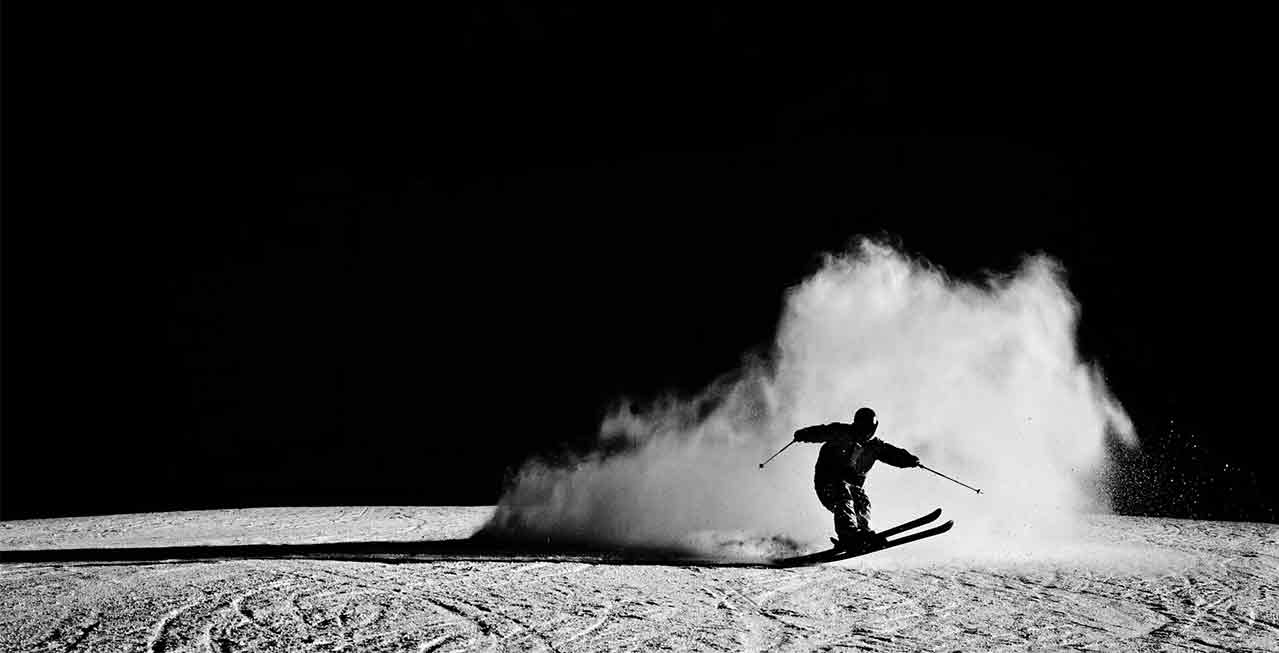
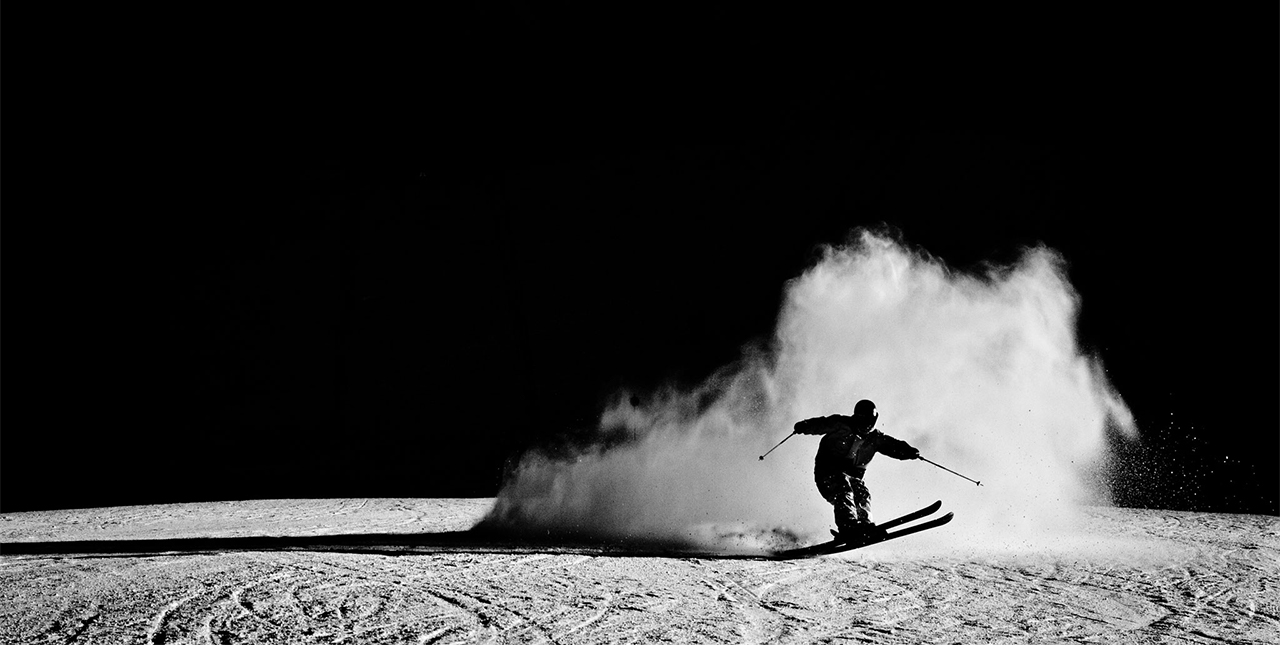
Обновил картинку на промо(качество 100%), попробовал зафлоатить первый блок

diff --git a/css/style.css b/css/style.css
@@ -56,60 +56,10 @@ body {
   font-weight: 400;
   color: #000;
   background-color: #fff;
-  /* width: 1280px;
-  height: 5925px; */
 }
 
-.container {
-  width: 1280px;
-}
-
-h1 {
-  font-size: 50px;
-  line-height: 50px;
-  font-weight: 900;
-  color: #fff;
-}
-
-h1 span {
-  font-size: 38px;
-  line-height: 40px;
-  font-weight: 600;
-  color: #fff;
-}
-
-h2 {
-  font-size: 40px;
-  line-height: 35px;
-  font-weight: 600;
-}
-
-h3 {
-  font-size: 20px;
-  line-height: 70px;
-  font-weight: 500;
-}
-
-.advantage h3 {
-  font-size: 20px;
-  line-height: 26px;
-  font-weight: 500;
-}
-
-.offer h3 {
-  font-size: 22px;
-  line-height: 35px;
-  font-weight: 500;
-}
-
-.offer p {
-  font-size: 20px;
-  line-height: 23px;
-  font-weight: 400;
-}
-
-.offer span {
-  color: #83eba5;
+a {
+  text-decoration: none;
 }
 
 p {
@@ -119,52 +69,92 @@ p {
   font-weight: 400;
 }
 
-a {
-  text-decoration: none;
+h2 {
+  font-size: 40px;
+  line-height: 35px;
+  font-weight: 600;
+  text-align: center;
+}
+
+h3 {
+  font-size: 20px;
+  line-height: 70px;
+  font-weight: 500;
+}
+
+.container {
+  width: 1160px;
+  margin: 0 auto;
+}
+
+.promo {
+  padding-top: 100px;
+  background: url(../img/bg_indexpromo.jpg) center no-repeat;
+  height: 550px;
+}
+
+.promo__title {
+  padding: 0;
+  margin: 0;
+  font-size: 50px;
+  line-height: 50px;
+  font-weight: 700;
+  color: #fff;
+}
+
+.promo__title-span {
+  display: block;
+  margin-top: 30px;
+  font-size: 38px;
+  line-height: 40px;
+  font-weight: 600;
+  color: #fff;
+}
+
+header {
+padding: 35px 0;
+}
+
+.logo {
+  display: inline-block;
+  padding: 0;
+  margin: 0;
+  width: 160px;
+  float: left;
+  vertical-align: middle;
 }
 
 .main-menu {
-  font-size: 15px;
-  line-height: 70px;
-  font-weight: 500;
-  text-transform: uppercase;
+  float: left;
+  text-align: center;
 }
 
-footer .main-menu {
-  opacity: .8;
+.main-menu__list {
+  display: block;
+  margin: 0;
+  padding: 0;
 }
 
-.phone,
-.mail {
-  font-size: 22px;
-  line-height: 35px;
-  font-weight: 600;
+.main-menu__item {
+  display: inline-block;
+  margin: 0 20px;
 }
 
-.description {
-  font-size: 20px;
-  line-height: 35px;
-  font-weight: 500;
+.phone {
+  float: left;
+  margin: 20px;
 }
 
-.service_links {
-  font-size: 20px;
-  line-height: 25px;
-  font-weight: 500;
-  opacity: .9;
-}
-
-.copyright {
-  font-size: 15px;
-  line-height: 22px;
-  font-weight: 600;
-}
-
-.btn_join {
-  padding: 10px 15px;
+.btn__join {
+  display: inline-block;
+  margin: 10px;
+  float: right;
+  width: 135px;
+  padding: 10px;
   font-size: 15px;
   line-height: 65,16px;
   font-weight: 700;
+  text-align: center;
   color: #74e196;
   text-transform: uppercase;
   border: 2px solid #000;
@@ -189,6 +179,91 @@ footer .main-menu {
   text-transform: uppercase;
   border: 2px solid #000;
   background: #fff;
+}
+
+.services__desc {
+  text-align: center;
+  margin: 0;
+  padding: 0;
+}
+
+.services__item {
+  margin-top: 40px;
+  float: left;
+  width: 360px;
+} 
+
+.services__item--width {
+  width: 758px;
+  margin-left: 40px;
+}
+
+.services__photo {
+float: left;
+padding-right: 40px;
+}
+
+
+/* Дальше буду еще править */
+
+
+.advantage h3 {
+  font-size: 20px;
+  line-height: 26px;
+  font-weight: 500;
+}
+
+.offer h3 {
+  font-size: 22px;
+  line-height: 35px;
+  font-weight: 500;
+}
+
+.offer p {
+  font-size: 20px;
+  line-height: 23px;
+  font-weight: 400;
+}
+
+.offer span {
+  color: #83eba5;
+}
+
+.main-menu {
+  font-size: 15px;
+  line-height: 70px;
+  font-weight: 700;
+  text-transform: uppercase;
+}
+
+footer .main-menu {
+  opacity: .8;
+}
+
+.phone,
+.connect__mail {
+  font-size: 22px;
+  line-height: 35px;
+  font-weight: 700;
+}
+
+.services__desc {
+  font-size: 20px;
+  line-height: 35px;
+  font-weight: 500;
+}
+
+.services__links {
+  font-size: 20px;
+  line-height: 25px;
+  font-weight: 500;
+  opacity: .9;
+}
+
+.copyright {
+  font-size: 15px;
+  line-height: 22px;
+  font-weight: 600;
 }
 
 .btn_select {
@@ -226,18 +301,20 @@ footer .main-menu {
   background: url(../img/sprite.png) -771px -5px;
 }
 
+/* распорка */
+.container:after {
+  content: "";
+  display: block;
+  clear: both;
+} 
+/* распорка */
+
 .services {
   color: #000;
 }
 
 .advantages {
   color: #000;
-}
-
-.promo {
-  background: url(../img/bg_indexpromo.jpg) top;
-  width: 1280px;
-  height: 645px;
 }
 
 .offers {
@@ -255,8 +332,9 @@ footer {
   background: url(../img/bg_footer.jpg) 50% 50% no-repeat;
 }
 
-.list_item{
+.list_item {
   display: inline-block;
+
 }
 
 .list_item:hover {
@@ -272,7 +350,6 @@ footer {
 }
 
 .social-links .list_item {
-  display: block;
   background-image: url(../img/sprite.png);
   height: 40px;
 }

diff --git a/index.html b/index.html
@@ -1,6 +1,6 @@
 <!DOCTYPE html>
 <html lang="ru">
-  
+
 <head>
   <meta charset="UTF-8">
   <title>ICE-ACE Главная</title>
@@ -56,9 +56,9 @@
             </div>
             </div>
           </article>
-          <article class="services__item">
+          <article class="services__item services__item--width">
               <img src="img/service_img_2-top.jpg" alt="сноубордист" class="services__photo">
-            <div class="services_info">
+            <div class="services__info">
               <h3 class="services__info-title">Краткий курс</h3>
               <p class="services__info-desc">Экспресс курс расчитан на тех, кто хочет повысить свой уровень в короткий срок, узнать новые техники катания и получить лайфхаки "как кататься как чемпион" от опытных инструкторов,подходит как для новичков, так и более опытных</p>
               <div class="services__links">
@@ -67,7 +67,7 @@
               </div>
             </div>
           </article>
-          <article class="services__item">
+          <article class="services__item services__item--width">
               <img src="img/service_img_3-btm.jpg" alt="сноубордист" class="services__photo">
             <div class="services__info">
               <h3 class="services__info-title">Полный курс</h3>
